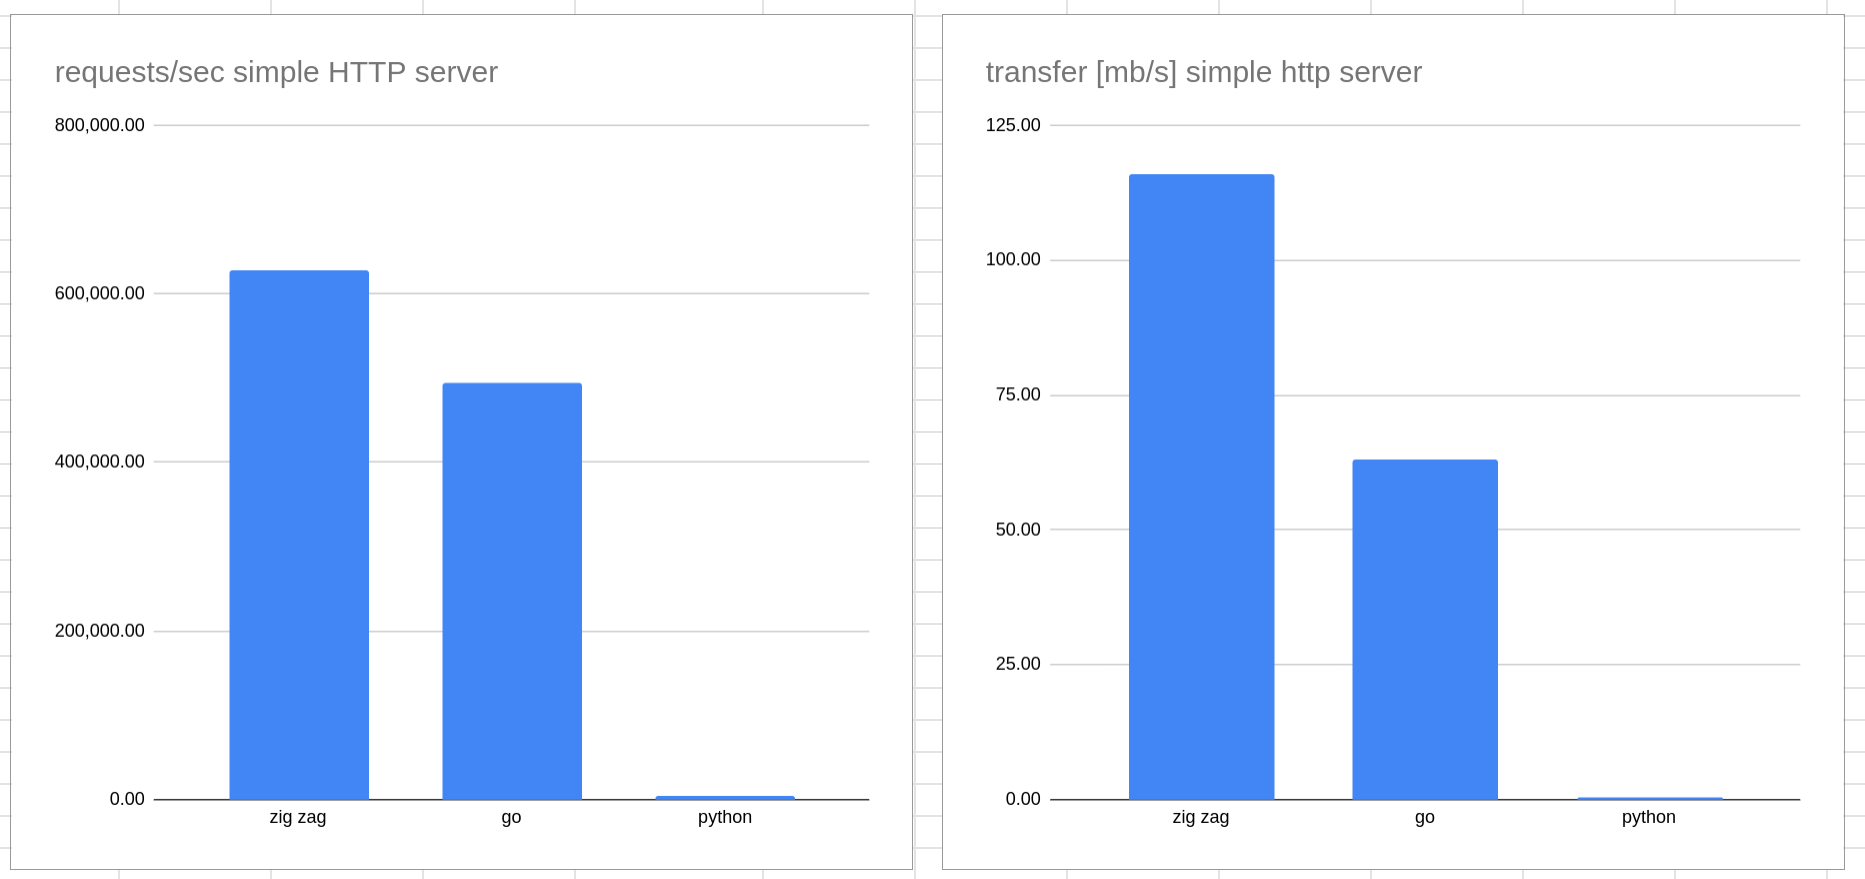
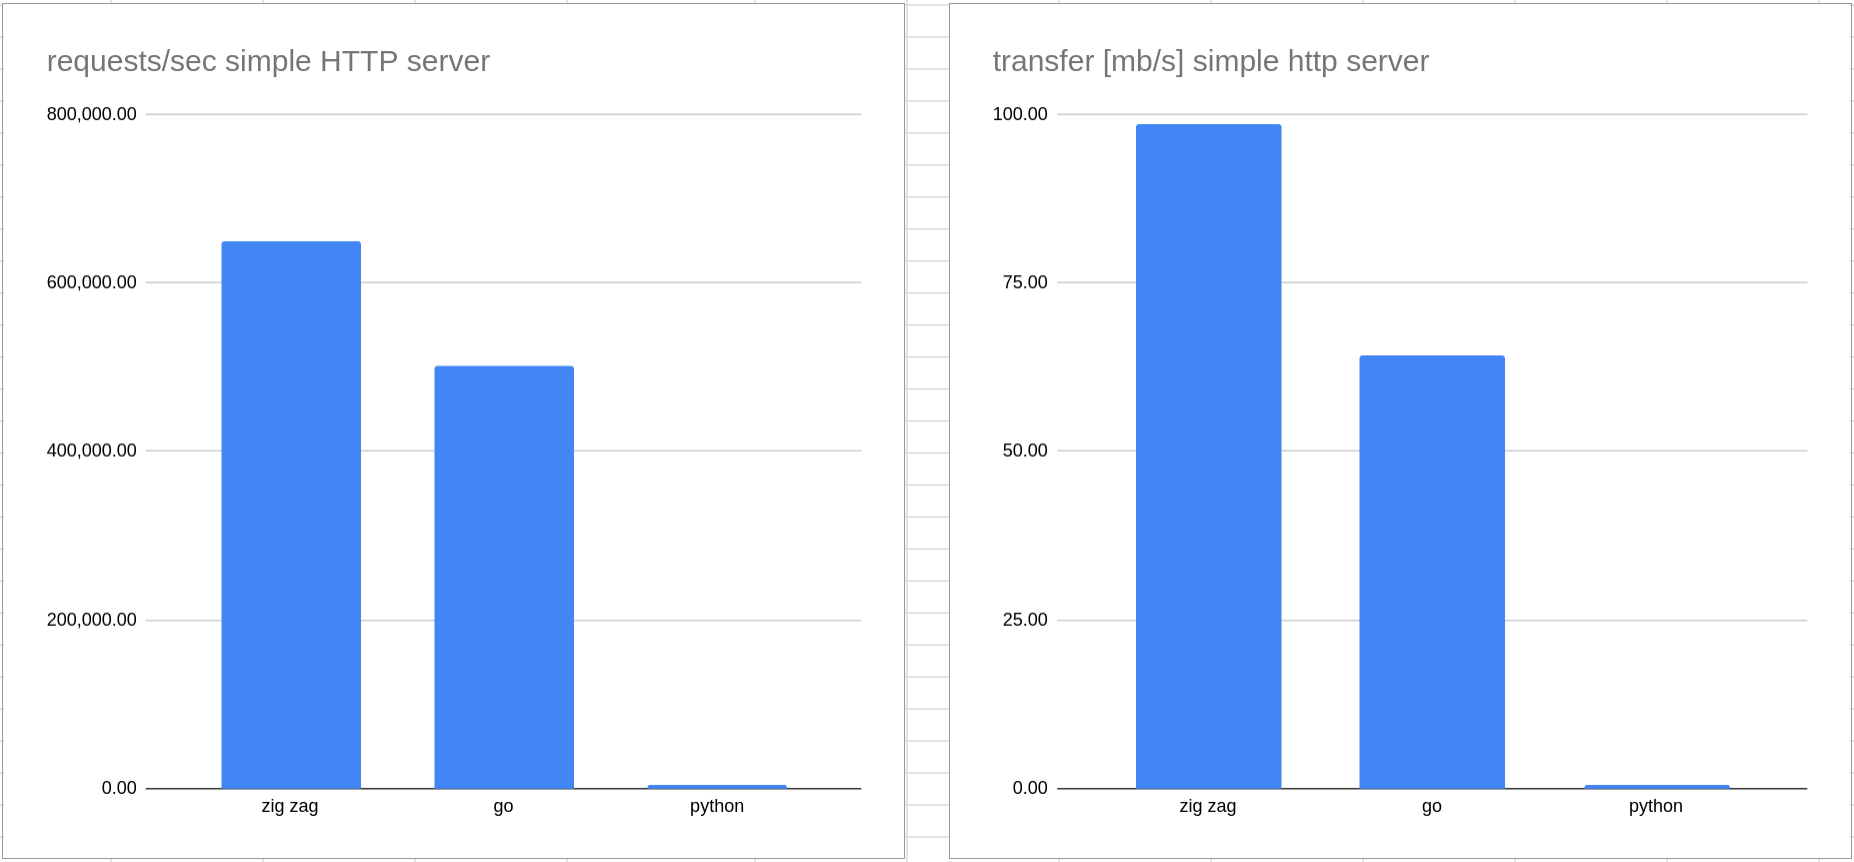
fixed wrk stats

diff --git a/wrk/python/main.py b/wrk/python/main.py
@@ -10,7 +10,7 @@ class MyServer(BaseHTTPRequestHandler):
         self.send_response(200)
         self.send_header("Content-type", "text/html")
         self.end_headers()
-        self.wfile.write(bytes("HELLO FROM PYTHON!!!", "utf-8"))
+        self.wfile.write(bytes("HI FROM PYTHON!!!", "utf-8"))
 
     def log_message(self, format, *args):
         return

diff --git a/blazingly-fast.md b/blazingly-fast.md
@@ -1,7 +1,8 @@
 # ⚡blazingly fast⚡
 
 I conducted a series of quick tests, using wrk with simple HTTP servers written
-in GO and in zig zap. 
+in GO and in zig zap. I made sure that all servers only output 17 bytes of HTTP
+body.
 
 Just to get some sort of indication, I also included measurements for python
 since I used to write my REST APIs in python before creating zig zap.
@@ -13,7 +14,10 @@ You can check out the scripts I used for the tests in [./wrk](wrk/).
 You can see the verbatim output of `wrk`, and some infos about the test machine
 below the code snippets.
 
+![](wrk_tables.png)
+
 ### requests / sec
+
 ![](wrk_requests.png)
 
 ### transfer MB / sec
@@ -30,7 +34,7 @@ const std = @import("std");
 const zap = @import("zap");
 
 fn on_request_minimal(r: zap.SimpleRequest) void {
-    _ = r.sendBody("<html><body><h1>Hello from ZAP!!!</h1></body></html>");
+    _ = r.sendBody("Hello from ZAP!!!");
 }
 
 pub fn main() !void {
@@ -92,7 +96,7 @@ class MyServer(BaseHTTPRequestHandler):
         self.send_response(200)
         self.send_header("Content-type", "text/html")
         self.end_headers()
-        self.wfile.write(bytes("HELLO FROM PYTHON!!!", "utf-8"))
+        self.wfile.write(bytes("HI FROM PYTHON!!!", "utf-8"))
 
     def log_message(self, format, *args):
         return
@@ -116,24 +120,6 @@ if __name__ == "__main__":
 wrk version: `wrk 4.1.0 [epoll] Copyright (C) 2012 Will Glozer`
 
 ```
-========================================================================
-                          zig
-========================================================================
-Running 10s test @ http://127.0.0.1:3000
-  4 threads and 400 connections
-  Thread Stats   Avg      Stdev     Max   +/- Stdev
-    Latency   337.49us  109.24us   4.21ms   88.64%
-    Req/Sec   157.78k     8.31k  172.93k    59.25%
-  Latency Distribution
-     50%  314.00us
-     75%  345.00us
-     90%  396.00us
-     99%  699.00us
-  6280964 requests in 10.01s, 1.13GB read
-Requests/sec: 627277.99
-Transfer/sec:    116.05MB
-
-
 (base) rs@ryzen:~/code/github.com/renerocksai/zap$ ./wrk/measure.sh zig
 Listening on 0.0.0.0:3000
 ========================================================================
@@ -142,38 +128,57 @@ Listening on 0.0.0.0:3000
 Running 10s test @ http://127.0.0.1:3000
   4 threads and 400 connections
   Thread Stats   Avg      Stdev     Max   +/- Stdev
-    Latency   339.50us  176.93us  12.52ms   91.23%
-    Req/Sec   158.24k     8.00k  170.45k    53.00%
-  Latency Distribution
-     50%  313.00us
-     75%  345.00us
-     90%  399.00us
-     99%  697.00us
-  6297146 requests in 10.02s, 1.14GB read
-Requests/sec: 628768.81
-Transfer/sec:    116.33MB
-
-
-(base) rs@ryzen:~/code/github.com/renerocksai/zap$ ./wrk/measure.sh zig
-Listening on 0.0.0.0:3000
-========================================================================
-                          zig
-========================================================================
-Running 10s test @ http://127.0.0.1:3000
-  4 threads and 400 connections
-  Thread Stats   Avg      Stdev     Max   +/- Stdev
-    Latency   344.23us  185.46us  14.44ms   89.93%
-    Req/Sec   157.56k    12.85k  171.21k    94.00%
+    Latency   331.40us  115.09us   8.56ms   91.94%
+    Req/Sec   159.51k     9.44k  175.23k    56.50%
   Latency Distribution
      50%  312.00us
-     75%  346.00us
-     90%  528.00us
-     99%  747.00us
-  6270913 requests in 10.02s, 1.13GB read
-Requests/sec: 625756.37
-Transfer/sec:    115.77MB
+     75%  341.00us
+     90%  375.00us
+     99%  681.00us
+  6348945 requests in 10.01s, 0.94GB read
+Requests/sec: 634220.13
+Transfer/sec:     96.17MB
+(base) rs@ryzen:~/code/github.com/renerocksai/zap$ 
 
+(base) rs@ryzen:~/code/github.com/renerocksai/zap$ ./wrk/measure.sh zig
+Listening on 0.0.0.0:3000
+========================================================================
+                          zig
+========================================================================
+Running 10s test @ http://127.0.0.1:3000
+  4 threads and 400 connections
+  Thread Stats   Avg      Stdev     Max   +/- Stdev
+    Latency   322.43us  103.25us   3.72ms   86.57%
+    Req/Sec   166.35k     2.89k  182.78k    68.00%
+  Latency Distribution
+     50%  297.00us
+     75%  330.00us
+     90%  482.00us
+     99%  657.00us
+  6619245 requests in 10.02s, 0.98GB read
+Requests/sec: 660803.71
+Transfer/sec:    100.20MB
+(base) rs@ryzen:~/code/github.com/renerocksai/zap$ 
 
+(base) rs@ryzen:~/code/github.com/renerocksai/zap$ ./wrk/measure.sh zig
+Listening on 0.0.0.0:3000
+========================================================================
+                          zig
+========================================================================
+Running 10s test @ http://127.0.0.1:3000
+  4 threads and 400 connections
+  Thread Stats   Avg      Stdev     Max   +/- Stdev
+    Latency   325.47us  105.86us   4.03ms   87.27%
+    Req/Sec   164.60k     4.69k  181.85k    84.75%
+  Latency Distribution
+     50%  300.00us
+     75%  333.00us
+     90%  430.00us
+     99%  667.00us
+  6549594 requests in 10.01s, 0.97GB read
+Requests/sec: 654052.56
+Transfer/sec:     99.18MB
+(base) rs@ryzen:~/code/github.com/renerocksai/zap$ 
 
 (base) rs@ryzen:~/code/github.com/renerocksai/zap$ ./wrk/measure.sh go
 listening on 0.0.0.0:8090
@@ -183,18 +188,16 @@ listening on 0.0.0.0:8090
 Running 10s test @ http://127.0.0.1:8090/hello
   4 threads and 400 connections
   Thread Stats   Avg      Stdev     Max   +/- Stdev
-    Latency   721.60us  755.26us  14.12ms   87.95%
-    Req/Sec   123.79k     4.65k  135.57k    69.00%
+    Latency   680.63us  692.05us  12.09ms   88.04%
+    Req/Sec   126.49k     4.28k  139.26k    71.75%
   Latency Distribution
-     50%  429.00us
-     75%    0.88ms
-     90%    1.65ms
-     99%    3.63ms
-  4927352 requests in 10.02s, 629.68MB read
-Requests/sec: 491607.70
-Transfer/sec:     62.82MB
-
-
+     50%  403.00us
+     75%  822.00us
+     90%    1.52ms
+     99%    3.34ms
+  5033360 requests in 10.01s, 643.22MB read
+Requests/sec: 502584.84
+Transfer/sec:     64.23MB
 (base) rs@ryzen:~/code/github.com/renerocksai/zap$ ./wrk/measure.sh go
 listening on 0.0.0.0:8090
 ========================================================================
@@ -203,18 +206,16 @@ listening on 0.0.0.0:8090
 Running 10s test @ http://127.0.0.1:8090/hello
   4 threads and 400 connections
   Thread Stats   Avg      Stdev     Max   +/- Stdev
-    Latency   698.35us  707.23us  11.03ms   87.80%
-    Req/Sec   124.36k     4.27k  135.19k    69.50%
+    Latency   683.97us  695.78us  10.01ms   88.04%
+    Req/Sec   126.31k     4.34k  137.63k    65.00%
   Latency Distribution
-     50%  419.00us
-     75%    0.86ms
-     90%    1.58ms
-     99%    3.38ms
-  4948380 requests in 10.01s, 632.37MB read
-Requests/sec: 494338.77
-Transfer/sec:     63.17MB
-
-
+     50%  408.00us
+     75%  829.00us
+     90%    1.53ms
+     99%    3.34ms
+  5026848 requests in 10.01s, 642.39MB read
+Requests/sec: 502149.91
+Transfer/sec:     64.17MB
 (base) rs@ryzen:~/code/github.com/renerocksai/zap$ ./wrk/measure.sh go
 listening on 0.0.0.0:8090
 ========================================================================
@@ -223,19 +224,16 @@ listening on 0.0.0.0:8090
 Running 10s test @ http://127.0.0.1:8090/hello
   4 threads and 400 connections
   Thread Stats   Avg      Stdev     Max   +/- Stdev
-    Latency   700.97us  710.99us  10.38ms   87.73%
-    Req/Sec   124.38k     4.16k  135.31k    67.25%
+    Latency   688.89us  702.75us  12.70ms   88.09%
+    Req/Sec   126.06k     4.20k  138.00k    70.25%
   Latency Distribution
-     50%  419.00us
-     75%    0.86ms
-     90%    1.59ms
-     99%    3.39ms
-  4950585 requests in 10.01s, 632.65MB read
-Requests/sec: 494551.24
-Transfer/sec:     63.20MB
-
-
-
+     50%  414.00us
+     75%  836.00us
+     90%    1.54ms
+     99%    3.36ms
+  5015716 requests in 10.01s, 640.97MB read
+Requests/sec: 500968.28
+Transfer/sec:     64.02MB
 (base) rs@ryzen:~/code/github.com/renerocksai/zap$ ./wrk/measure.sh python
 Server started http://127.0.0.1:8080
 ========================================================================
@@ -244,19 +242,17 @@ Server started http://127.0.0.1:8080
 Running 10s test @ http://127.0.0.1:8080
   4 threads and 400 connections
   Thread Stats   Avg      Stdev     Max   +/- Stdev
-    Latency     4.55ms   57.21ms   1.66s    99.12%
-    Req/Sec     2.56k     2.55k    7.57k    57.43%
+    Latency    12.89ms  101.69ms   1.79s    97.76%
+    Req/Sec     1.83k     2.11k    7.53k    82.18%
   Latency Distribution
-     50%  216.00us
-     75%  343.00us
-     90%  371.00us
-     99%  765.00us
-  27854 requests in 10.02s, 3.61MB read
-  Socket errors: connect 0, read 27854, write 0, timeout 8
-Requests/sec:   2779.87
-Transfer/sec:    369.20KB
-
-
+     50%  215.00us
+     75%  260.00us
+     90%  363.00us
+     99%  485.31ms
+  34149 requests in 10.02s, 4.33MB read
+  Socket errors: connect 0, read 34149, write 0, timeout 15
+Requests/sec:   3407.63
+Transfer/sec:    442.60KB
 (base) rs@ryzen:~/code/github.com/renerocksai/zap$ ./wrk/measure.sh python
 Server started http://127.0.0.1:8080
 ========================================================================
@@ -265,19 +261,17 @@ Server started http://127.0.0.1:8080
 Running 10s test @ http://127.0.0.1:8080
   4 threads and 400 connections
   Thread Stats   Avg      Stdev     Max   +/- Stdev
-    Latency     4.08ms   58.22ms   1.66s    99.27%
-    Req/Sec     2.28k     2.13k    7.68k    50.00%
+    Latency     9.87ms   90.32ms   1.79s    98.21%
+    Req/Sec     2.16k     2.17k    7.49k    80.10%
   Latency Distribution
-     50%  226.00us
-     75%  345.00us
-     90%  374.00us
-     99%  496.00us
-  55353 requests in 10.03s, 7.18MB read
-  Socket errors: connect 0, read 55353, write 0, timeout 8
-Requests/sec:   5521.48
-Transfer/sec:    733.33KB
-
-
+     50%  234.00us
+     75%  353.00us
+     90%  378.00us
+     99%  363.73ms
+  43897 requests in 10.02s, 5.57MB read
+  Socket errors: connect 0, read 43897, write 0, timeout 14
+Requests/sec:   4379.74
+Transfer/sec:    568.85KB
 (base) rs@ryzen:~/code/github.com/renerocksai/zap$ ./wrk/measure.sh python
 Server started http://127.0.0.1:8080
 ========================================================================
@@ -286,17 +280,18 @@ Server started http://127.0.0.1:8080
 Running 10s test @ http://127.0.0.1:8080
   4 threads and 400 connections
   Thread Stats   Avg      Stdev     Max   +/- Stdev
-    Latency     6.05ms   70.02ms   1.66s    98.94%
-    Req/Sec     2.40k     2.35k    7.43k    54.40%
+    Latency     3.98ms   51.85ms   1.66s    99.16%
+    Req/Sec     2.69k     2.58k    7.61k    51.14%
   Latency Distribution
-     50%  222.00us
-     75%  313.00us
-     90%  366.00us
-     99%  162.93ms
-  31959 requests in 10.02s, 4.15MB read
-  Socket errors: connect 0, read 31959, write 0, timeout 6
-Requests/sec:   3189.81
-Transfer/sec:    423.65KB
+     50%  234.00us
+     75%  357.00us
+     90%  381.00us
+     99%  568.00us
+  50165 requests in 10.02s, 6.36MB read
+  Socket errors: connect 0, read 50165, write 0, timeout 9
+Requests/sec:   5004.06
+Transfer/sec:    649.95KB
+(base) rs@ryzen:~/code/github.com/renerocksai/zap$ 
 ```
 
 ## test machine

diff --git a/README.md b/README.md
@@ -46,8 +46,13 @@ claim any performance things for itself. In this initial implementation of zap,
 I didn't care about optimizations at all.
 
 But, how fast is it? Being blazingly fast is relative. When compared with a
-simple GO HTTP server, a simple zig zap HTTP server performed about twice as
-fast - on my machine. 
+simple GO HTTP server, a simple zig zap HTTP server performed really good on my
+machine:
+
+![](wrk_table_summary.png)
+
+- zig zag nearly 30% faster than GO
+- zig zag had over 50% more throughput than GO
 
 ![](wrk_summary.png)
 
